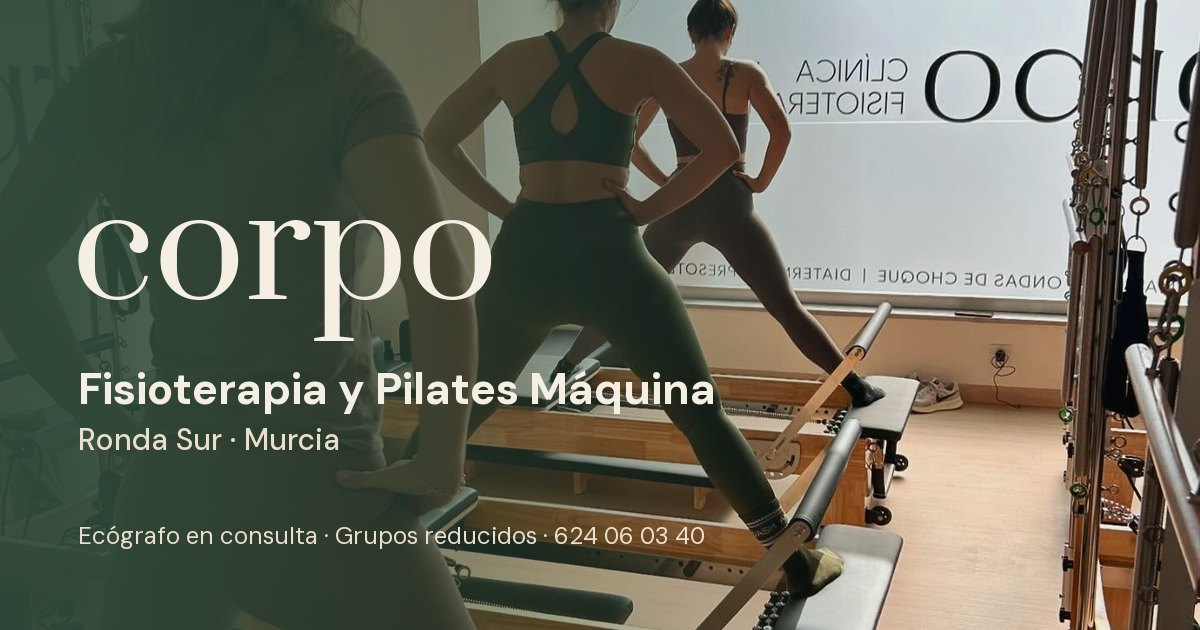
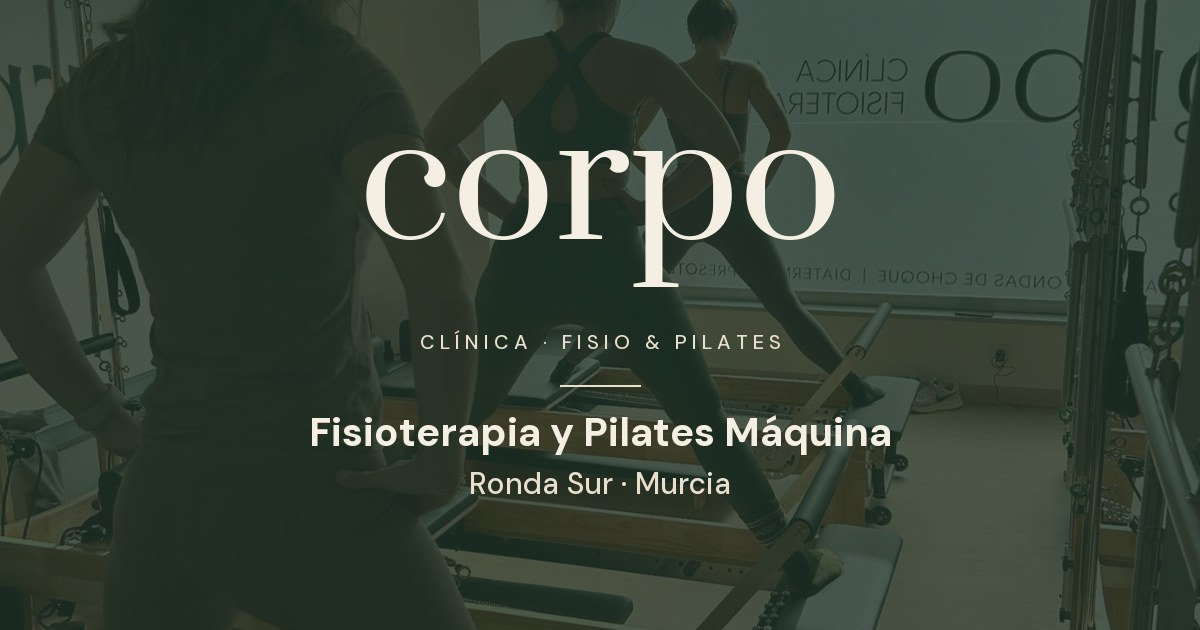
Ajusta Dúo, og-image y retira foto de presoterapia

diff --git a/src/pages/Duo.tsx b/src/pages/Duo.tsx
@@ -1,4 +1,5 @@
 import { useEffect, useRef, useState, type CSSProperties, type MouseEvent } from "react";
+import { Waves } from "lucide-react";
 import { Link } from "react-router-dom";
 import fisioPhoto from "@/assets/service-fisio.jpg";
 import pilatesPhoto from "@/assets/service-pilates.jpg";
@@ -8,7 +9,7 @@ import { CorpoMap } from "@/components/corpo/CorpoMap";
 import { CorpoMedia } from "@/components/corpo/CorpoMedia";
 import { useReveal } from "@/hooks/use-reveal";
 import { corpo } from "@/lib/corpo";
-import type { MediaSlot } from "@/lib/instagram-media";
+import { hasInstagramMedia, type MediaSlot } from "@/lib/instagram-media";
 import "./duo.css";
 
 const sections = [
@@ -23,7 +24,7 @@ const pilatesSteps: { title: string; text: string; slot: MediaSlot }[] = [
   { slot: "pilates-3", title: "Progresión", text: "Ajustamos muelles, apoyos y ejercicios a medida que avanzas." },
 ];
 
-const fisioServices: { title: string; text: string; slot: MediaSlot }[] = [
+const fisioServices: { title: string; text: string; slot?: MediaSlot }[] = [
   { slot: "fisio-manual", title: "Terapia manual", text: "El trabajo con las manos, en el centro del tratamiento." },
   { slot: "fisio-diatermia", title: "Diatermia", text: "Tecnología que podemos sumar al tratamiento." },
   { slot: "fisio-ondas", title: "Ondas de choque", text: "Otra herramienta disponible en la clínica." },
@@ -146,7 +147,11 @@ const Duo = () => {
           </li>
           {fisioServices.map((service, index) => (
             <li key={service.title} style={stagger(index + 1)}>
-              <span className="duo-thumb"><CorpoMedia slot={service.slot} alt="" /></span>
+              <span className="duo-thumb">
+                {service.slot && hasInstagramMedia(service.slot)
+                  ? <CorpoMedia slot={service.slot} alt="" />
+                  : <Waves aria-hidden="true" strokeWidth={1.5} />}
+              </span>
               <div>
                 <h3>{service.title}</h3>
                 <p>{service.text}</p>
@@ -209,11 +214,6 @@ const Duo = () => {
         </Link>
         <span>Fisioterapia y Pilates Máquina en Ronda Sur, Murcia</span>
         <a href={corpo.instagramUrl} target="_blank" rel="noopener noreferrer">@clinicacorpomurcia ↗</a>
-        <small className="duo-credit">
-          Foto de presoterapia: Enter,{" "}
-          <a href="https://commons.wikimedia.org/wiki/File:IPK.JPG" target="_blank" rel="noopener noreferrer">Wikimedia Commons</a>,{" "}
-          <a href="https://creativecommons.org/licenses/by-sa/4.0/deed.es" target="_blank" rel="noopener noreferrer">CC BY-SA 4.0</a> (recortada).
-        </small>
       </footer>
     </main>
   );

diff --git a/index.html b/index.html
@@ -31,6 +31,7 @@
     <meta property="og:title" content="Fisioterapia y Pilates Máquina en Murcia | Clínica Corpo" />
     <meta property="og:description" content="Fisioterapia avanzada con ecógrafo y Pilates Máquina en grupos reducidos en Ronda Sur, Murcia. Pide cita online o escríbenos por WhatsApp." />
     <meta property="og:image" content="%SITE_URL%/og-image.jpg" />
+    <meta property="og:image:type" content="image/jpeg" />
     <meta property="og:image:width" content="1200" />
     <meta property="og:image:height" content="630" />
     <meta property="og:image:alt" content="Clase de Pilates Máquina en la sala de Clínica Corpo, Murcia" />

diff --git a/src/pages/duo.css b/src/pages/duo.css
@@ -140,8 +140,6 @@
 
 .duo-footer { align-items: center; display: flex; flex-wrap: wrap; gap: 1rem 2rem; padding: 1.5rem var(--duo-gutter); }
 .duo-footer > a:last-of-type { font-weight: 600; margin-left: auto; }
-.duo-credit { color: var(--duo-muted); flex-basis: 100%; font-size: 0.75rem; }
-.duo-credit a { text-decoration: underline !important; text-underline-offset: 2px; }
 
 /* Entrada de la portada al cargar */
 @keyframes duo-rise { from { opacity: 0; transform: translateY(28px); } to { opacity: 1; transform: none; } }

diff --git a/src/assets/instagram/LEEME.md b/src/assets/instagram/LEEME.md
@@ -29,6 +29,7 @@ Unsplash (licencia Unsplash, uso comercial gratuito, sin atribución obligatoria
 - pilates-1.jpg: https://unsplash.com/photos/5JQxj-zc5ng
 - pilates-3.jpg: https://unsplash.com/photos/cZ0WYsBFHhs
 
-Wikimedia Commons (CC BY-SA 4.0: exige atribución, que está en el pie de la web):
-- fisio-presoterapia.jpg: «IPK.JPG» de Enter, recortada para quitar la marca del aparato. https://commons.wikimedia.org/wiki/File:IPK.JPG
-  Si la clínica tiene una foto propia de su presoterapia, basta con sustituir este archivo y quitar el crédito del pie (Duo.tsx, .duo-credit).
+## Pendiente
+
+- fisio-presoterapia: no hay foto libre de presoterapia que no exija atribución. Mientras no exista
+  `fisio-presoterapia.jpg`, la tarjeta muestra un icono. Lo ideal es una foto del equipo de la clínica.
